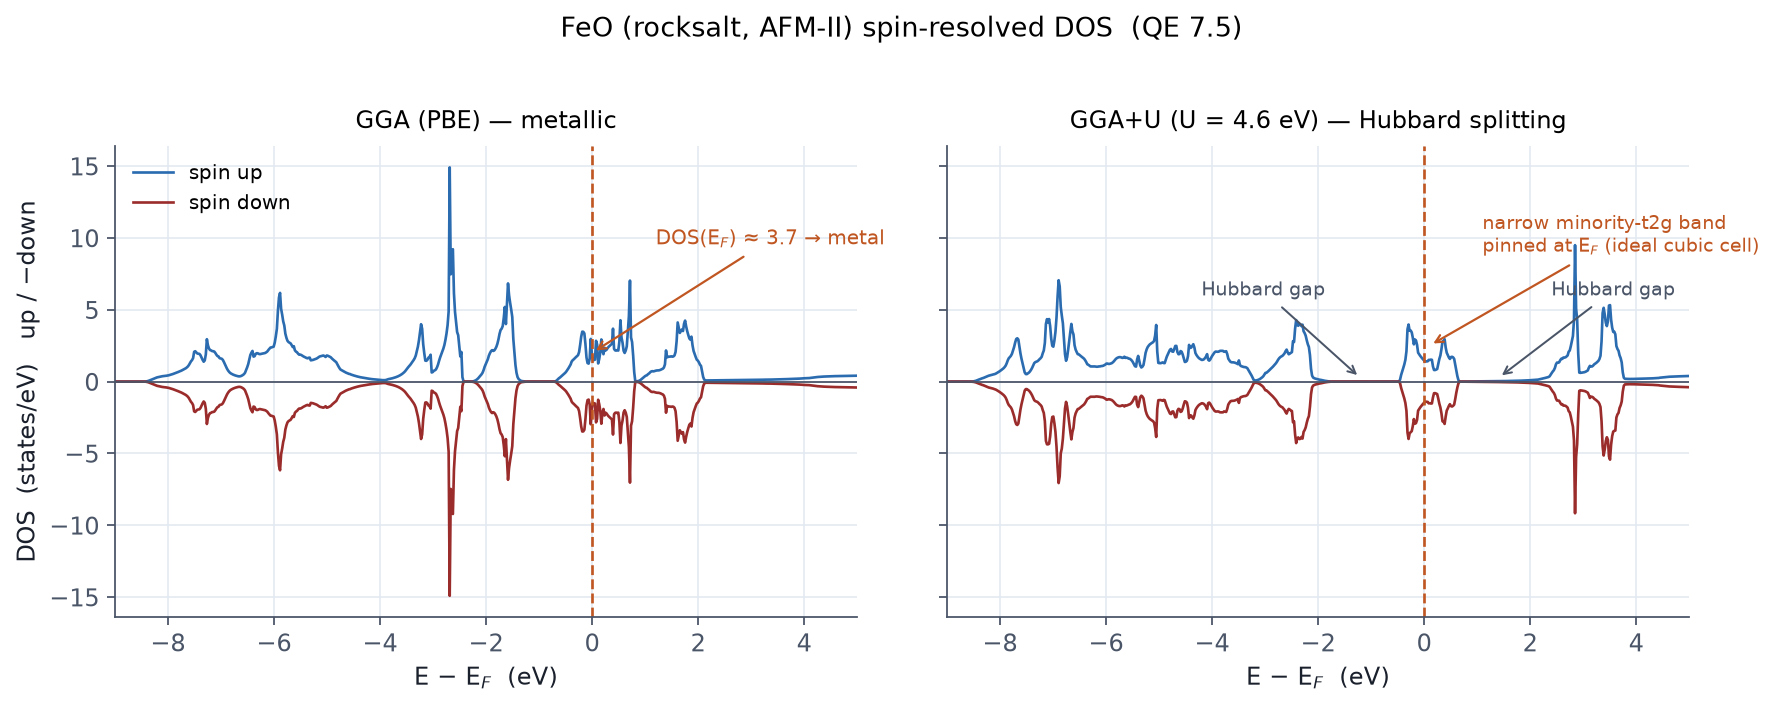
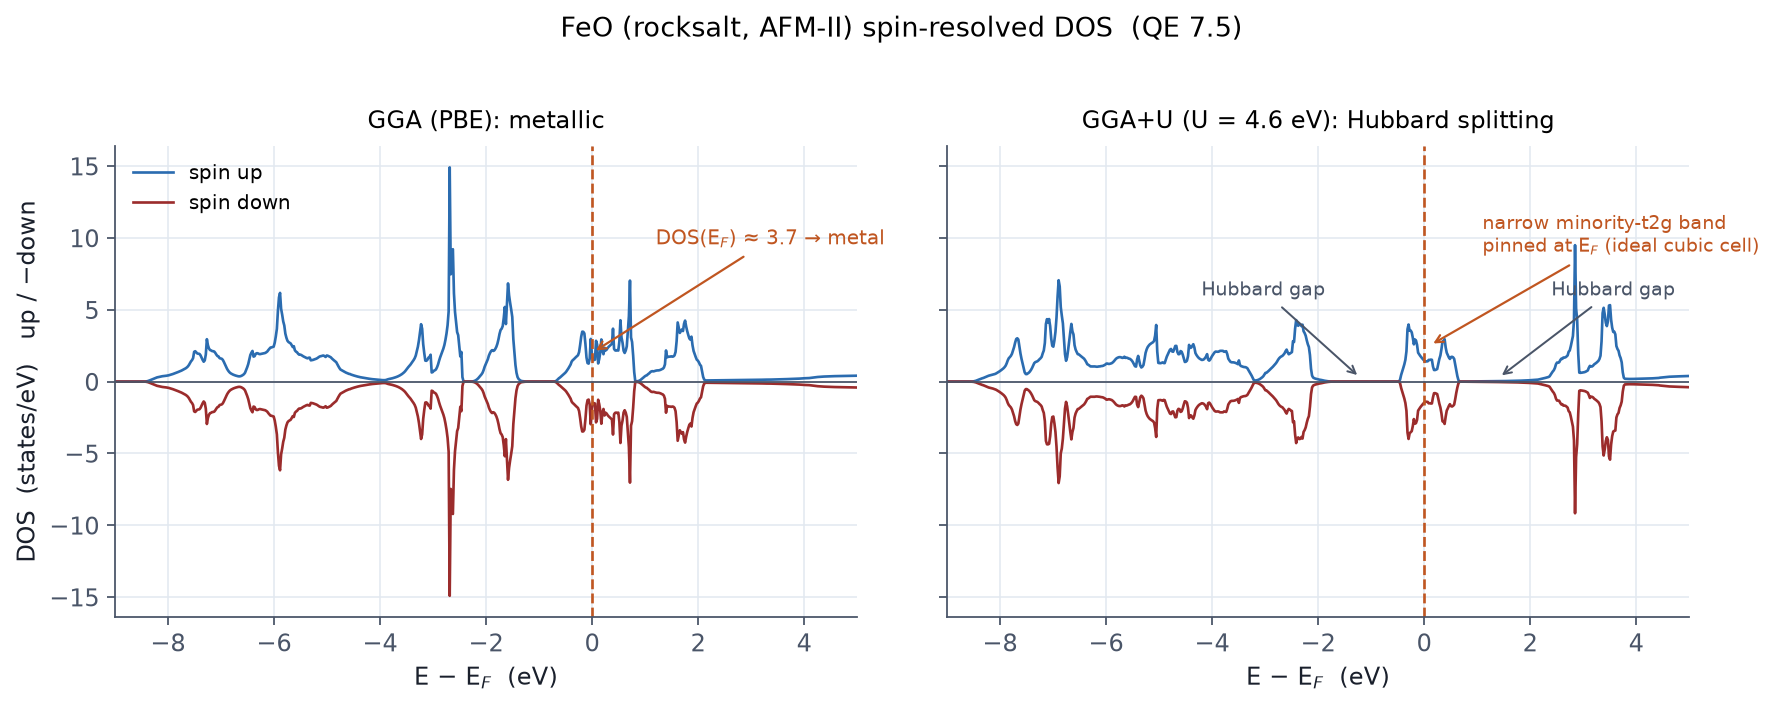
QE 그림 재생성: 제목의 em-dash를 콜론으로 정리
- FeO DOS 패널 제목 GGA (PBE): metallic / GGA+U (U = 4.6 eV): Hubbard
  splitting 으로 변경 후 9종 전부 재생성 (데이터 동일)
- plot_qe.py 독스트링의 한국어 캡션 언급 제거 (캡션도 영어로 통일됨)

Changed region(s): [[0.5887, 0.1556, 0.8986, 0.1867], [0.1859, 0.1556, 0.3408, 0.1867]]

diff --git a/guides/qe/.build/plot_qe.py b/guides/qe/.build/plot_qe.py
@@ -1,6 +1,5 @@
 """Generate the QE guide figures from actual pw.x runs (Quantum ESPRESSO 7.5,
-conda-forge, WSL Ubuntu). English axis labels match the site convention; Korean
-explanation goes in the HTML figcaptions.
+conda-forge, WSL Ubuntu). All labels and captions are English.
 
 Reads captured outputs under qe-demo/ and writes PNGs to ../assets/images/:
   qe-e03-convergence.png   E3  dE vs ecutwfc / dE vs k-grid / force convergence
@@ -263,8 +262,8 @@ gap_u, dosef_u = gap_at_ef(eu, upu + dwu)
 
 fig, (ag, au) = plt.subplots(1, 2, figsize=(11.4, 4.3), dpi=160, sharey=True)
 for ax, (e, up, dw), ttl in (
-        (ag, (eg, upg, dwg), "GGA (PBE) — metallic"),
-        (au, (eu, upu, dwu), "GGA+U (U = 4.6 eV) — Hubbard splitting")):
+        (ag, (eg, upg, dwg), "GGA (PBE): metallic"),
+        (au, (eu, upu, dwu), "GGA+U (U = 4.6 eV): Hubbard splitting")):
     ax.plot(e, up, color=BLUE, lw=1.2, label="spin up")
     ax.plot(e, -dw, color=RED, lw=1.2, label="spin down")
     ax.axvline(0, color=ORANGE, ls="--", lw=1.2)
